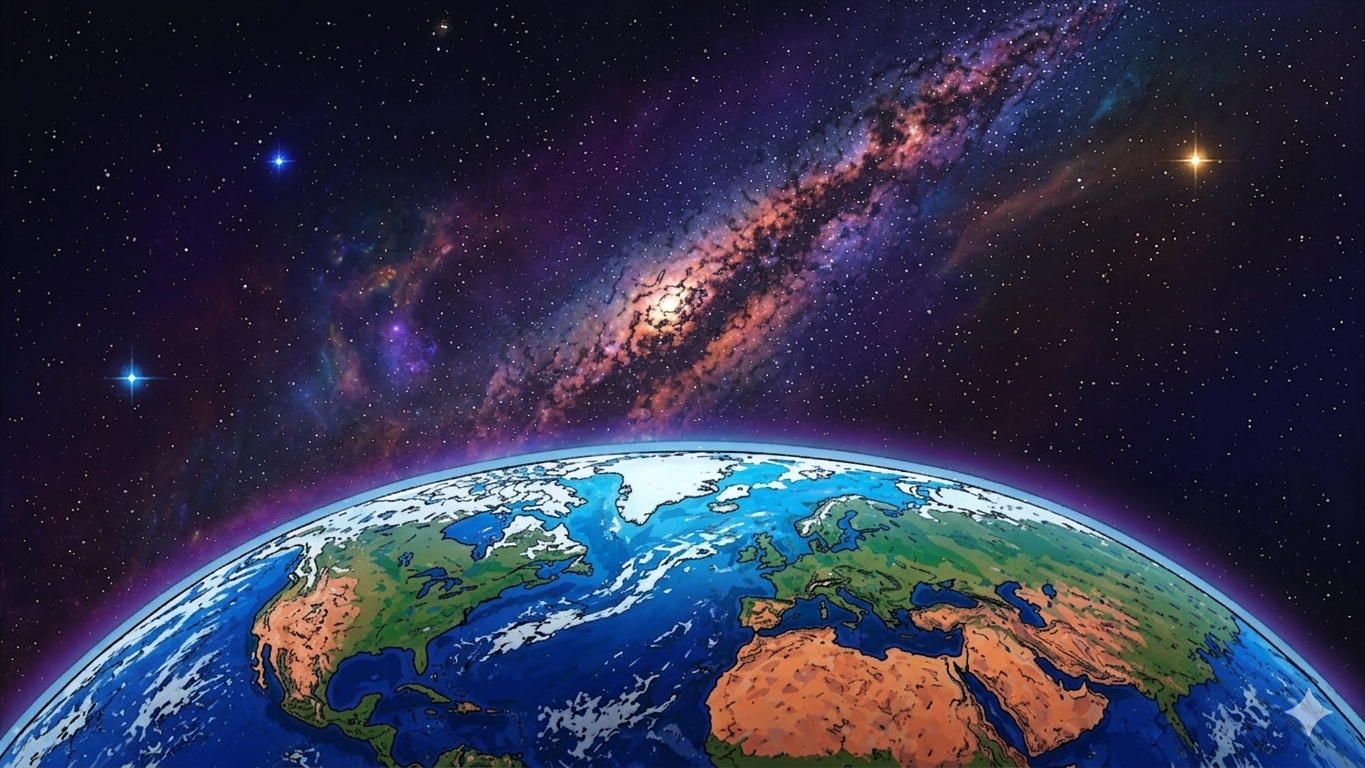
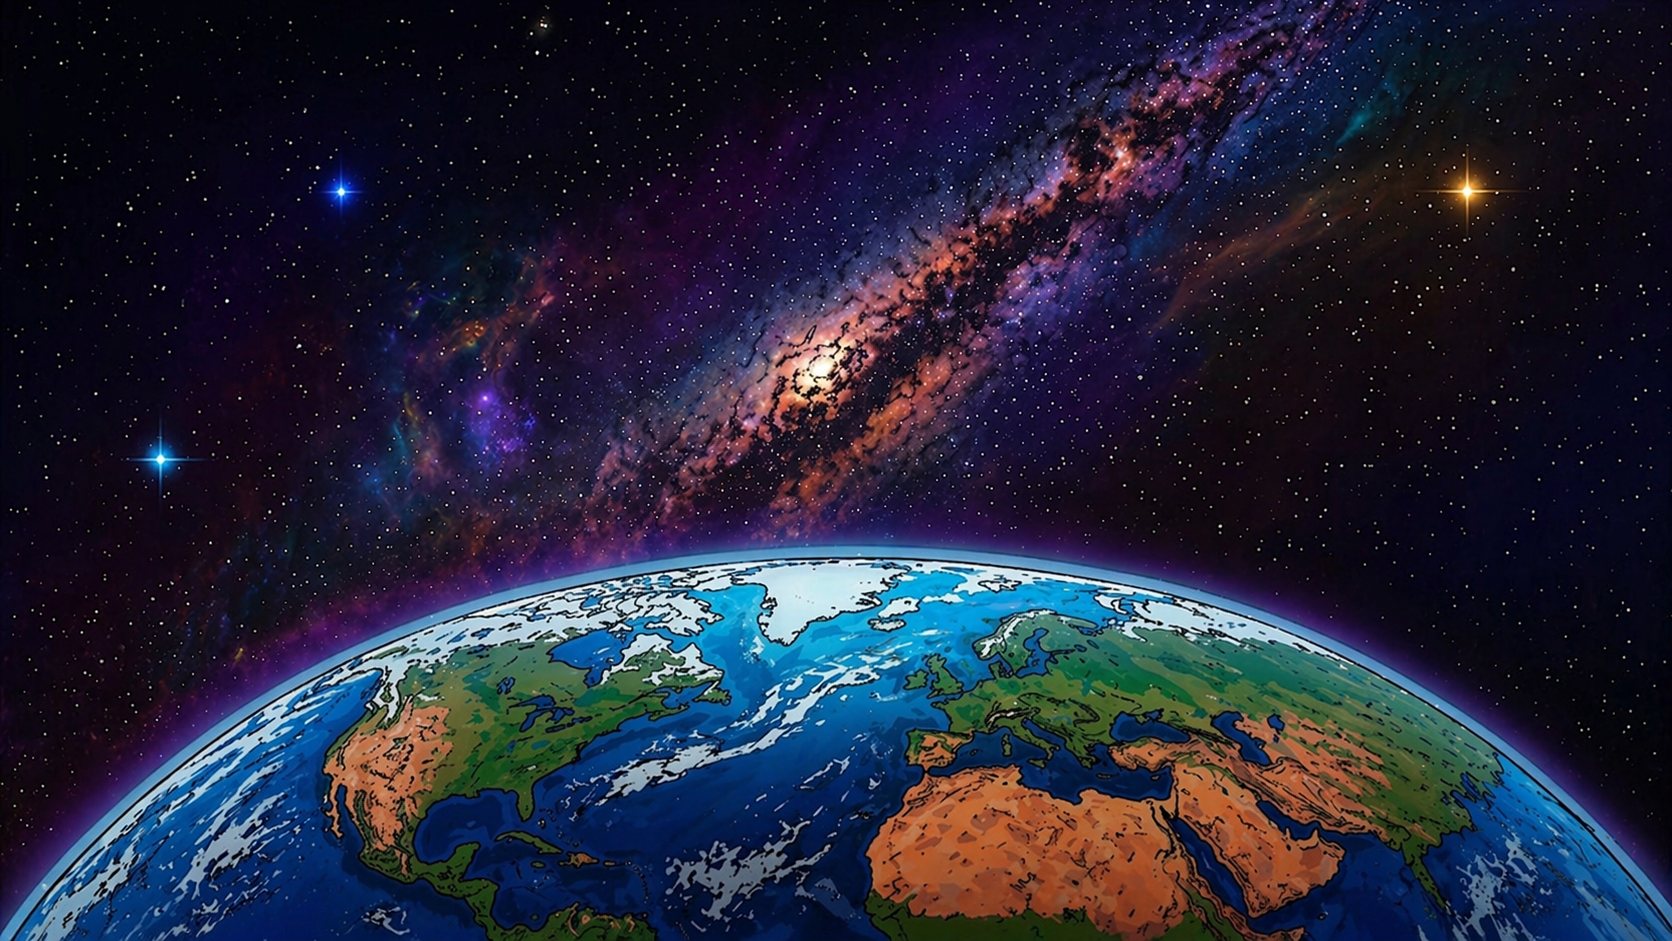
added different beginning and beginning no bg

diff --git a/src/Components/AboutMe.js b/src/Components/AboutMe.js
@@ -1,7 +1,7 @@
 import React, { useEffect, useState } from 'react';
 import { motion } from 'framer-motion';
 import me from '../images/AboutBrian.png';
-import spacebg from '../images/spacebg.jpg';
+import beginning from '../images/Beginning.png';
 import './About.css';
 const AboutMe = () => {
 
@@ -78,7 +78,7 @@ const AboutMe = () => {
   return (
     <>
     <div className='body-space' style = {styles.bodySpace}>
-        <div className='bg' style={{backgroundImage: `radial-gradient(transparent 40%, black 72%),url(${spacebg})`}}>
+        <div className='bg' style={{backgroundImage: `radial-gradient(transparent 40%, black 72%),url(${beginning})`}}>
         <div style={styles.about}>
             <div style={styles.intro}>
                 <motion.div
